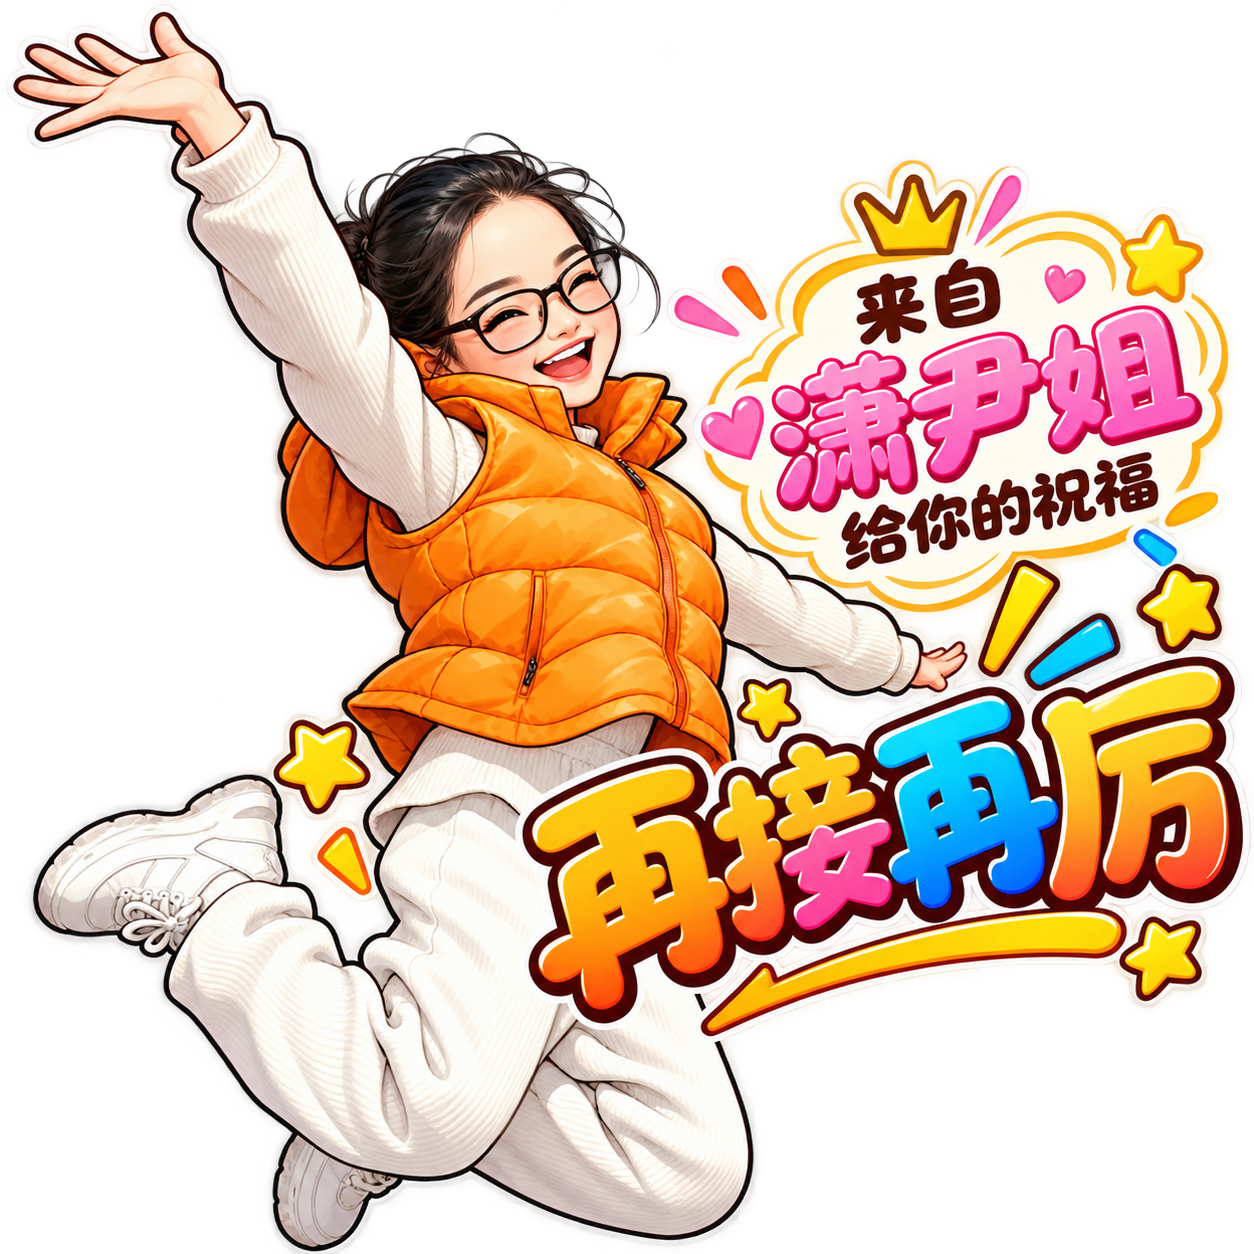
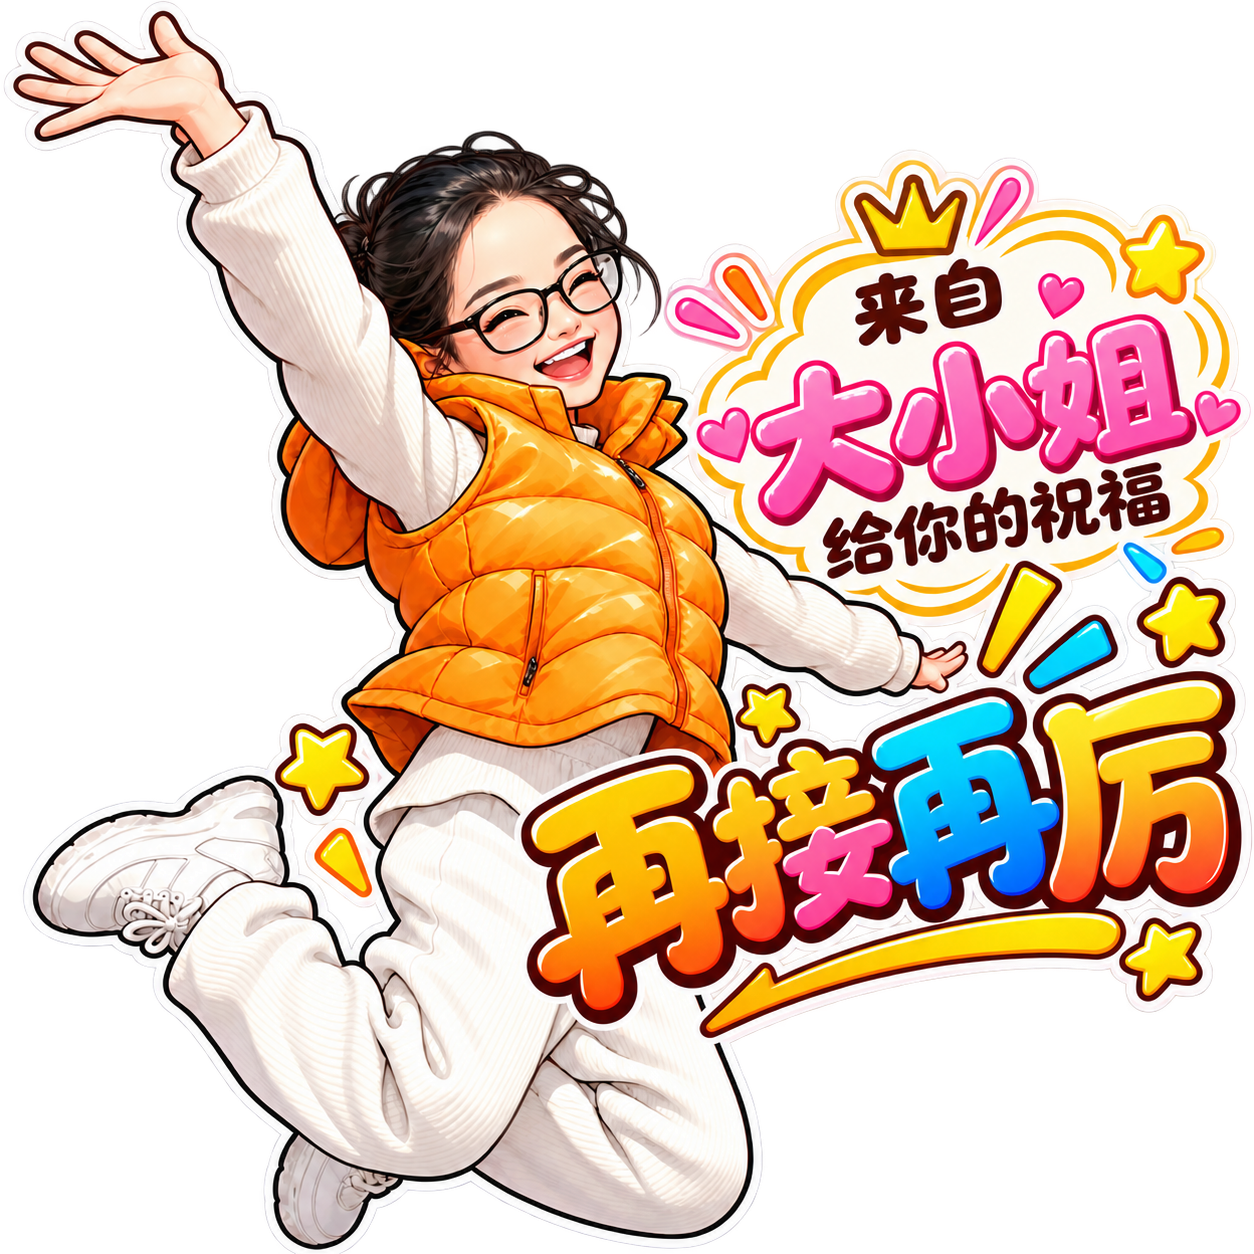
feat: 添加插画预取功能，优化游戏加载体验，确保在战斗后下载相关插画

diff --git a/src/game/items/ItemPickup.ts b/src/game/items/ItemPickup.ts
@@ -17,9 +17,9 @@ export function ensureItemArt(scene: Phaser.Scene): void {
     ]);
     radialBall(ctx, 16, 16, 11.5, [
       [0, 0xffffff],
-      [0.32, 0xe9eef6],
-      [0.68, 0x98a4b8],
-      [1, 0x3f475c],
+      [0.32, 0xffffff],
+      [0.68, 0xf0f6ff],
+      [1, 0xc9d9eb],
     ]);
     radialBall(ctx, 19, 20, 4, [
       [0, 0xffffff, 0.28],
@@ -46,6 +46,7 @@ export class ItemPickup extends Phaser.GameObjects.Container {
   itemId: ItemId = 'heal';
   private readonly halo: Phaser.GameObjects.Image;
   private readonly core: Phaser.GameObjects.Image;
+  private readonly glyphBadge: Phaser.GameObjects.Arc;
   private readonly glyph: Phaser.GameObjects.Text;
   private lifeMs = 0;
 
@@ -54,15 +55,19 @@ export class ItemPickup extends Phaser.GameObjects.Container {
     ensureItemArt(scene);
     this.halo = scene.add.image(0, 0, RING_KEY);
     this.core = scene.add.image(0, 0, ORB_KEY);
+    this.glyphBadge = scene.add
+      .circle(0, 0, 12, 0xf8fbff, 0.95)
+      .setStrokeStyle(1, 0x17344a, 0.25);
     this.glyph = scene.add
       .text(0, 0, '', {
         fontFamily: 'Microsoft YaHei, sans-serif',
-        fontSize: '15px',
+        fontSize: '17px',
         fontStyle: 'bold',
         color: '#10213a',
       })
       .setOrigin(0.5);
-    this.add([this.halo, this.core, this.glyph]);
+    // 浅色字牌让每种道具的文字都不受外层主题色影响。
+    this.add([this.halo, this.core, this.glyphBadge, this.glyph]);
     this.setDepth(12).setActive(false).setVisible(false);
     scene.add.existing(this);
   }

diff --git a/src/game/visuals/ArtworkPrefetch.ts b/src/game/visuals/ArtworkPrefetch.ts
@@ -1,0 +1,30 @@
+import tangtangUrl from '../../assets/blessing-tangtang.png';
+import xiangxiangUrl from '../../assets/blessing-xiangxiang.png';
+import encouragementUrl from '../../assets/result-encouragement-xiaoyin.png';
+import victoryUrl from '../../assets/result-victory-xiaoyin.png';
+
+const requested = new Map<string, Promise<void>>();
+const downloaded = new Set<string>();
+
+function downloadInBackground(url: string): void {
+  if (downloaded.has(url) || requested.has(url)) return;
+  const task = fetch(url, { cache: 'force-cache', priority: 'low' })
+    .then(async (response) => {
+      if (!response.ok) return;
+      // 读完响应后浏览器才能完整缓存图片；此处不占用 Phaser 的场景加载器。
+      await response.blob();
+      downloaded.add(url);
+    })
+    .catch(() => {
+      // 展示插画的场景仍会按原流程加载，下一关也可重试后台请求。
+    })
+    .finally(() => requested.delete(url));
+  requested.set(url, task);
+}
+
+export function prefetchArtworkForLevel(levelId: number): void {
+  downloadInBackground(tangtangUrl);
+  downloadInBackground(xiangxiangUrl);
+  downloadInBackground(encouragementUrl);
+  if (levelId === 5) downloadInBackground(victoryUrl);
+}

diff --git a/tests/artworkPrefetch.test.ts b/tests/artworkPrefetch.test.ts
@@ -1,0 +1,32 @@
+import { afterEach, describe, expect, it, vi } from 'vitest';
+import { prefetchArtworkForLevel } from '../src/game/visuals/ArtworkPrefetch';
+
+afterEach(() => vi.unstubAllGlobals());
+
+describe('artwork prefetch', () => {
+  it('starts after gameplay and requests the victory image only in level five', () => {
+    const fetchMock = vi.fn(
+      async (url: RequestInfo | URL, init?: RequestInit) => {
+        expect(String(url)).toBeTruthy();
+        expect(init?.priority).toBe('low');
+        return { ok: true, blob: async () => new Blob() };
+      },
+    );
+    vi.stubGlobal('fetch', fetchMock);
+    expect(fetchMock).not.toHaveBeenCalled();
+
+    prefetchArtworkForLevel(1);
+    expect(fetchMock).toHaveBeenCalledTimes(3);
+    expect(
+      fetchMock.mock.calls.every(
+        ([url]) => !String(url).includes('result-victory'),
+      ),
+    ).toBe(true);
+
+    prefetchArtworkForLevel(4);
+    expect(fetchMock).toHaveBeenCalledTimes(3);
+    prefetchArtworkForLevel(5);
+    expect(fetchMock).toHaveBeenCalledTimes(4);
+    expect(String(fetchMock.mock.calls[3][0])).toContain('result-victory');
+  });
+});

diff --git a/src/game/scenes/GameScene.ts b/src/game/scenes/GameScene.ts
@@ -26,6 +26,7 @@ import { ShieldAura } from '../ui/ShieldAura';
 import { DebugOverlay } from '../ui/DebugOverlay';
 import { Random } from '../utils/Random';
 import { LevelBackground } from '../visuals/LevelBackground';
+import { prefetchArtworkForLevel } from '../visuals/ArtworkPrefetch';
 import type { ResultData } from './ResultScene';
 import {
   generateUpgrades,
@@ -326,6 +327,8 @@ export class GameScene extends Phaser.Scene {
       this.debugOverlay?.destroy();
       this.input.keyboard?.off('keydown-ESC', this.onEscape);
     });
+    // 进入战斗后再利用网络空闲时间下载插画，不拖慢初始菜单。
+    this.time.delayedCall(500, () => prefetchArtworkForLevel(this.levelId));
   }
 
   update(_time: number, deltaMs: number): void {
